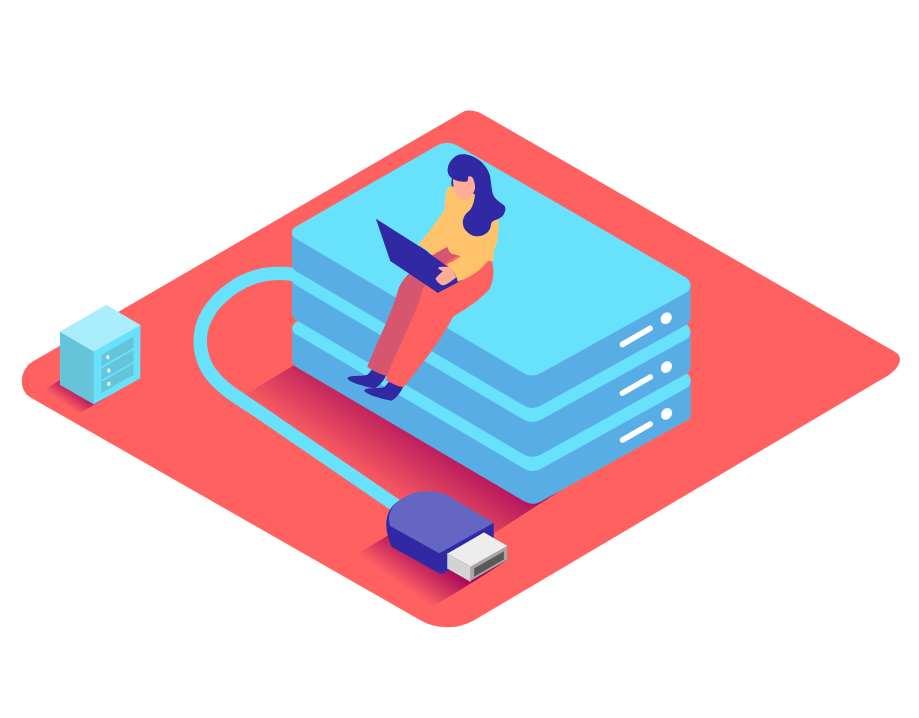
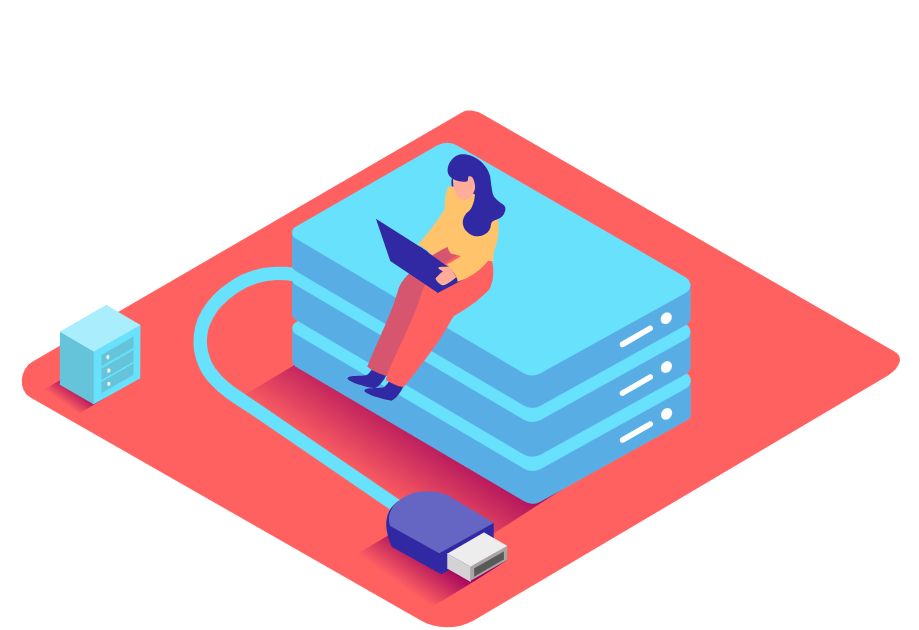
layout fixes

Changed region(s): [[0.0, 0.1508, 0.975, 0.9952]]

diff --git a/src/frontend/src/ui/content/main/projectdetails/LandingPage.vue b/src/frontend/src/ui/content/main/projectdetails/LandingPage.vue
@@ -8,29 +8,31 @@ import ExternalLink from "@common/ui/components/misc/ExternalLink.vue";
     <div>
         <div class="r-shade-text m-10">
             <div class="grid grid-cols-2 min-w-full min-h-full place-content-start gap-24">
-                <div class="space-y-8">
+                <div class="space-y-4">
                     <div>
                         <div class="text font-light uppercase">Sciebo Research Data Services</div>
-                        <div class="text-5xl font-black uppercase leading-none">Research data <span class="font-thin text-nowrap">made easy</span></div>
+                        <div class="text-4xl font-black uppercase leading-none">
+                            Research data <span class="font-thin text-nowrap text-3xl">made easy</span>
+                        </div>
                     </div>
-                    <div class="text-xl font-light mb-10">
+                    <div class="text-lg font-light mb-2">
                         Your flexible solution for research data managing and publishing. The services are designed to make data management effortless and
-                        collaborative, so you can focus on what matters most: your research.
+                        collaborative, so you can focus on what matters most: <span class="italic">your research</span>.
                         <div class="pt-2 text-lg">
                             Learn more:
                             <ExternalLink link="https://github.com/Sciebo-RDS" text="GitHub repository" />
                         </div>
                     </div>
-                    <Card class="p-6">
+                    <Card class="p-3">
                         <template #content>
                             <div class="grid justify-items-center">
-                                <img src="@assets/img/rds-steps-web.png" class="w-full" alt="Steps"/>
+                                <img src="@assets/img/rds-steps-web.png" class="w-full lg:w-[85%]" alt="Steps" />
                             </div>
                         </template>
                     </Card>
                 </div>
                 <!-- ... -->
-                <div class="grid place-items-start space-y-7">
+                <div class="grid place-items-start space-y-4">
                     <img src="@assets/img/landing_image.png" class="w-[25rem]" alt="Image" />
                     <Card class="w-[30rem]">
                         <template #title>